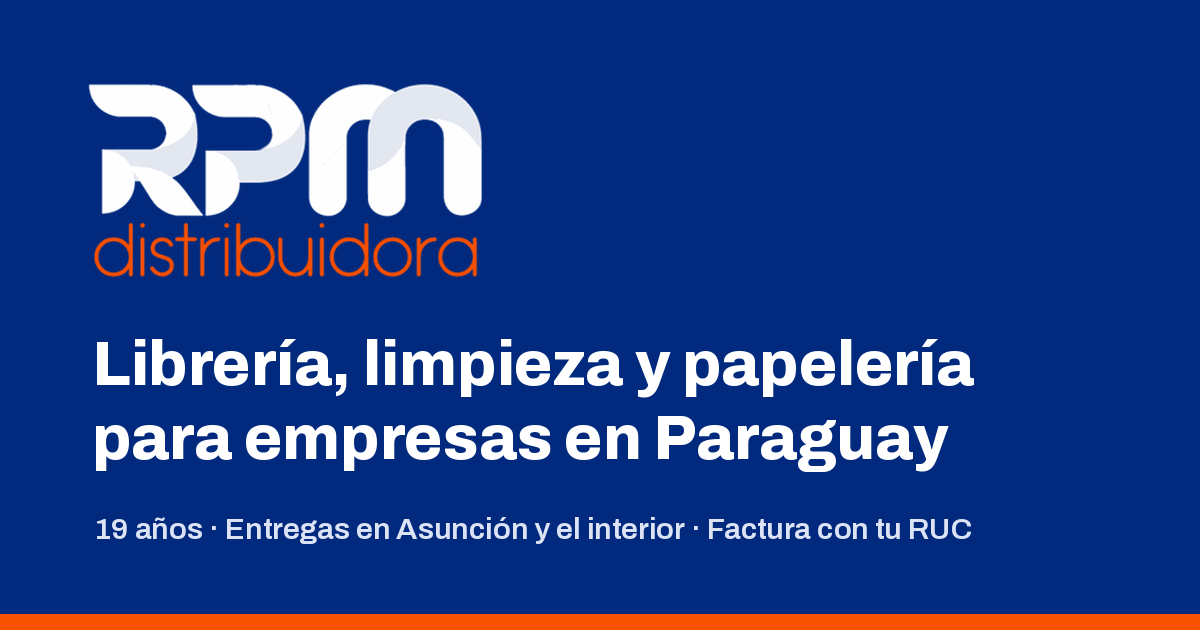
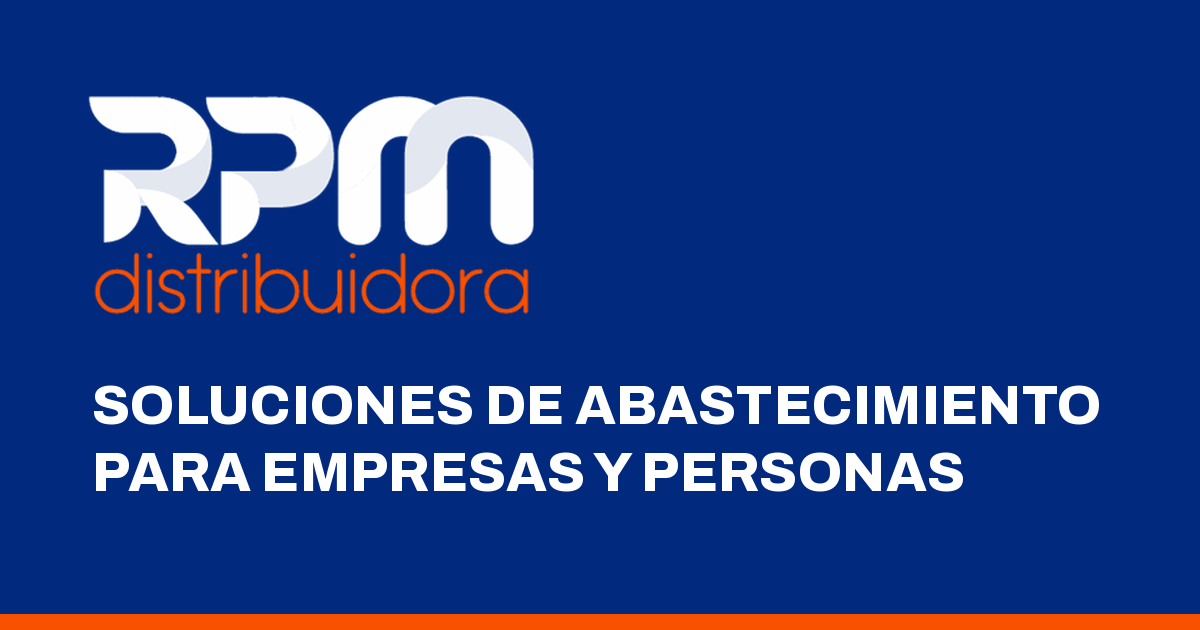
Imagen para compartir: texto 'Soluciones de abastecimiento para empresas y personas'
Claude-Session: https://claude.ai/code/session_01StbPGBYtYwYroxpuhieU6Z

Changed region(s): [[0.0617, 0.5429, 0.925, 0.7841], [0.0617, 0.1206, 0.4625, 0.5127], [0.0925, 0.8143, 0.8017, 0.8746]]

diff --git a/src/app/layout.tsx b/src/app/layout.tsx
@@ -25,7 +25,7 @@ export const metadata: Metadata = {
     siteName: SITE.nombre,
     locale: "es_PY",
     type: "website",
-    images: [{ url: "/compartir.png", width: 1200, height: 630, alt: "Distribuidora RPM: librería, limpieza y papelería para empresas" }],
+    images: [{ url: "/compartir.png", width: 1200, height: 630, alt: "Distribuidora RPM: soluciones de abastecimiento para empresas y personas" }],
   },
   twitter: { card: "summary_large_image", images: ["/compartir.png"] },
   // Solo se indexa cuando RPM_INDEXAR=1 (se activa al pasar al dominio real).
